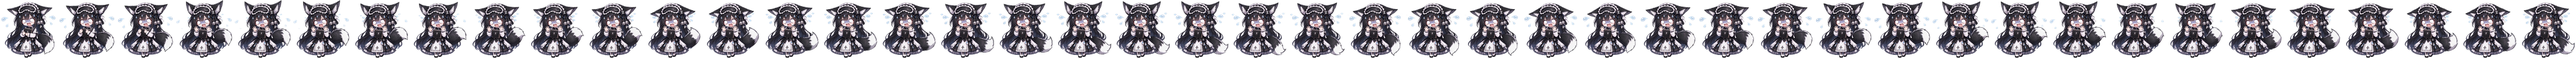
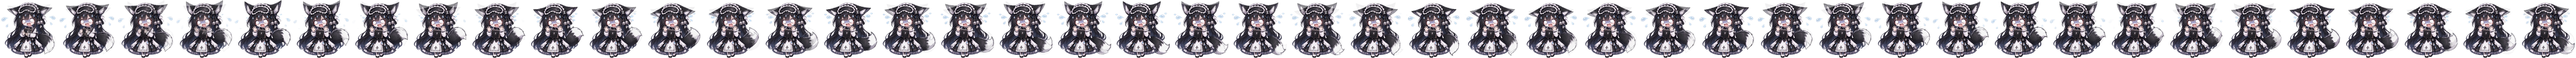
v1.9.4: temporal denoise + rendering-clock playback
- Sheets: 3-frame weighted temporal average kills codec-noise flicker
  on low-motion clips (the 'jumping' feel on normal/daze was noise
  shimmer, not pose stepping); soft alpha edges double as motion blur
- Playback: CompositionTarget.Rendering + Stopwatch absolute-time frame
  indexing replaces DispatcherTimer (~15.6ms granularity jitter)
- exe 4.2MB (soft alpha compresses worse)

diff --git a/tools/make-sheets.py b/tools/make-sheets.py
@@ -1,7 +1,5 @@
 # -*- coding: utf-8 -*-
-# 精灵图流水线 v4：按真实帧率处理（AI 视频多为 ~59fps，此前误按 24fps 导致慢放跳帧）
-#   真实 fps = 解码帧数 / 时长；窗口 0.6~1.0 秒（上限 60 帧）；窗口内满帧率采样
-#   calm 模式找最稳循环 / action 模式在接缝可接受里找动作最大
+# 精灵图流水线 v5：v4 基础上加时域降噪——压掉视频压缩噪声在低运动片段里的闪烁
 import os, sys
 import imageio
 import numpy as np
@@ -40,6 +38,17 @@ def key_white(img):
                 alpha[ny, nx] = 0; q.append((ny, nx))
     return np.dstack([img, alpha])
 
+def temporal_smooth(frames):
+    """相邻三帧加权平均：压压缩噪声闪烁；59fps 源帧距极短，动作几乎无损"""
+    out = []
+    n = len(frames)
+    for i in range(n):
+        a = frames[max(0, i - 1)].astype(np.float32)
+        b = frames[i].astype(np.float32)
+        c = frames[min(n - 1, i + 1)].astype(np.float32)
+        out.append(np.clip(0.25 * a + 0.5 * b + 0.25 * c, 0, 255).astype(np.uint8))
+    return out
+
 def bbox_of(rgba):
     ys, xs = np.where(rgba[:, :, 3] > 0)
     if len(xs) == 0: return None
@@ -55,10 +64,10 @@ def find_loop(mp4, mode):
         grays.append(np.asarray(g, dtype=np.float32))
     r.close()
     n = len(grays)
-    fps_real = max(1.0, n / dur)                 # 真实帧率（meta 的 fps 字段不可信）
+    fps_real = max(1.0, n / dur)
     G = np.stack(grays)
-    klo = max(8, int(fps_real * 0.6))            # 0.6 秒
-    khi = min(n - 2, int(fps_real * 1.0), MAX_FRAMES)   # 1.0 秒，上限 60 帧
+    klo = max(8, int(fps_real * 0.6))
+    khi = min(n - 2, int(fps_real * 1.0), MAX_FRAMES)
     if khi <= klo: klo = khi - 1
     motion = np.abs(G[1:n] - G[0:n - 1]).mean(axis=(1, 2))
     best = None
@@ -82,15 +91,15 @@ def find_loop(mp4, mode):
         s, K = int((n - 1) * 0.4), klo
         best = (0.0, 0.0, s, K, "fallback")
     seam, mov, s, K, used = best
-    idxs = list(range(s, s + K + 1))             # 窗口内满帧率采样，不跳帧
+    idxs = list(range(s, s + K + 1))
     seamf = float(np.abs(G[idxs[0]] - G[idxs[-1]]).mean())
-    print("  loop[%s]: start=%d K=%d(%.2fs) 真实fps=%.1f 接缝=%.2f 运动=%.2f (n=%d dur=%.1fs)" %
-          (used, s, K, K / fps_real, fps_real, seamf, mov, n, dur))
-    return idxs, seamf, fps_real
+    print("  loop[%s]: start=%d K=%d(%.2fs) fps=%.1f 接缝=%.2f 运动=%.2f (n=%d)" %
+          (used, s, K, K / fps_real, fps_real, seamf, mov, n))
+    return idxs, fps_real
 
 def process(mp4, out_name, mode):
     print(out_name)
-    idxs, seam, fps_real = find_loop(mp4, mode)
+    idxs, fps_real = find_loop(mp4, mode)
     want = set(idxs)
     frames = []
     r = imageio.get_reader(os.path.join(D, mp4))
@@ -100,6 +109,7 @@ def process(mp4, out_name, mode):
             if len(frames) == len(idxs): break
     r.close()
     assert len(frames) == len(idxs), "抽帧数量不足"
+    frames = temporal_smooth(frames)
     u = [10**9, 10**9, -1, -1]
     for f in frames:
         b = bbox_of(f)
@@ -120,8 +130,8 @@ def process(mp4, out_name, mode):
     sheet = Image.new("RGBA", (SIZE * len(tiles), SIZE), (0, 0, 0, 0))
     for i, t in enumerate(tiles): sheet.paste(t, (i * SIZE, 0))
     sheet.save(os.path.join(OUT, out_name))
-    print("  -> %s (%dx%d, %d 帧, 播放间隔 %dms)" % (out_name, cw, ch, len(tiles), round(1000 / fps_real)))
+    print("  -> %s (%dx%d, %d 帧, 17ms/帧)" % (out_name, cw, ch, len(tiles)))
 
 for mp4, out, mode in JOBS:
     process(mp4, out, mode)
-print("done（全部按 ~17ms/帧 播放）")
+print("done")

diff --git a/hdr-toggle.cs b/hdr-toggle.cs
@@ -1363,8 +1363,8 @@ namespace HDRToggle
         private Grid _dsRow, _zcRow;
         private Border _sepTop, _sepMid;
         private FramePlayer _dfPlayer, _zcPlayer;
-        private DispatcherTimer _animTimer;
-        private int _animIdx;
+        private System.Diagnostics.Stopwatch _animClock;
+        private int _animIdx = -1;
         private bool _dfFrozen, _zcFrozen;   // 数据异常时定格，不瞎动
         private int _lastZcMood = -1;        // 额度分档迟滞用，防阈值附近反复横跳
 
@@ -1619,7 +1619,6 @@ namespace HDRToggle
                 _pollTimer.Stop();
                 _dataTimer.Stop();
                 _armTimer.Stop();
-                if (_animTimer != null) _animTimer.Stop();
                 if (_tray != null) { _tray.Visible = false; _tray.Dispose(); }
                 try { File.WriteAllText(PosFile, ((int)Left).ToString() + "," + ((int)Top).ToString()); } catch { }
                 Dispatcher.BeginInvokeShutdown(DispatcherPriority.Background);
@@ -1687,14 +1686,16 @@ namespace HDRToggle
                 _mockTimer.Start();
             }
             else RefreshData();
-            _animTimer = new DispatcherTimer { Interval = TimeSpan.FromMilliseconds(17) };   // ~59fps，与素材真实帧率一致
-            _animTimer.Tick += delegate
+            // 帧动画用渲染时钟驱动：按绝对时间取帧序号，节拍零抖动（DispatcherTimer 有 ~15.6ms 粒度）
+            _animClock = System.Diagnostics.Stopwatch.StartNew();
+            CompositionTarget.Rendering += delegate
             {
-                _animIdx++;
-                if (!_dfFrozen) _dfPlayer.SetFrame(_animIdx);   // SetFrame 内部按各表帧数取模
-                if (!_zcFrozen) _zcPlayer.SetFrame(_animIdx);
+                int idx = (int)(_animClock.Elapsed.TotalMilliseconds / 17);
+                if (idx == _animIdx) return;
+                _animIdx = idx;
+                if (!_dfFrozen) _dfPlayer.SetFrame(idx);   // SetFrame 内部按各表帧数取模
+                if (!_zcFrozen) _zcPlayer.SetFrame(idx);
             };
-            _animTimer.Start();
             _pollTimer.Start();
             UpdateDock(false);   // 上次关闭时若贴边，启动即恢复半隐藏
             RefreshData();
